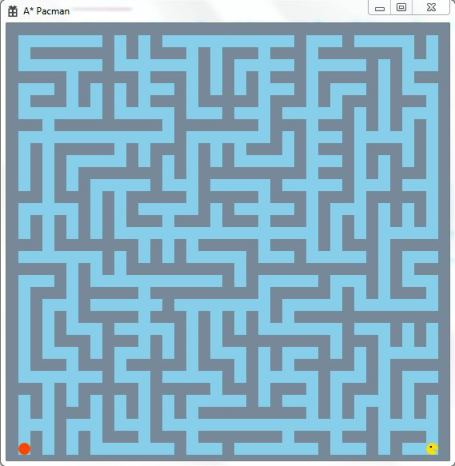
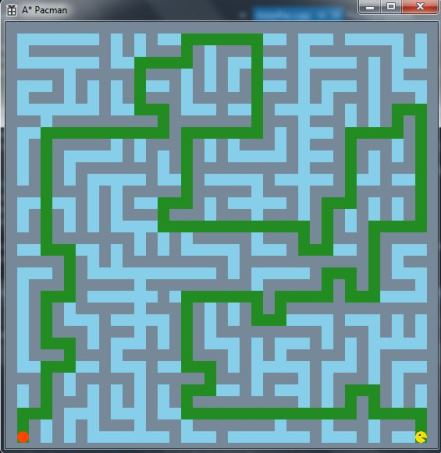
Draw astar path and update current map view

diff --git a/AstarPac/AstarPac.cpp b/AstarPac/AstarPac.cpp
@@ -77,34 +77,6 @@ ATOM AstarPac::RegClass()
 }
 
 //
-//   FUNCTION: InitInstance(HINSTANCE, int)
-//
-//   PURPOSE: Saves instance handle and creates main window
-//
-//   COMMENTS:
-//
-//        In this function, we save the instance handle in a global variable and
-//        create and display the main program window.
-//
-/*BOOL InitInstance(HINSTANCE hInstance, int nCmdShow)
-{
-   hInst = hInstance; // Store instance handle in our global variable
-
-   HWND hWnd = CreateWindowW(szWindowClass, szTitle, WS_OVERLAPPEDWINDOW,
-      CW_USEDEFAULT, 0, CW_USEDEFAULT, 0, nullptr, nullptr, hInstance, nullptr);
-
-   if (!hWnd)
-   {
-      return FALSE;
-   }
-
-   ShowWindow(hWnd, nCmdShow);
-   UpdateWindow(hWnd);
-
-   return TRUE;
-}
-*/
-//
 //  FUNCTION: WndProc(HWND, UINT, WPARAM, LPARAM)
 //
 //  PURPOSE:  Processes messages for the main window.
@@ -221,7 +193,8 @@ AstarPac::AstarPac()
   m_pDirect2dFactory(nullptr),
   m_pRenderTarget(nullptr),
   m_pLightSlateGrayBrush(nullptr),
-  m_pOrangeRedBrush(nullptr)
+  m_pOrangeRedBrush(nullptr),
+  m_pGreenBrush(nullptr)
 {
   m_pgame = new PacmanGame("grid.txt");
 }
@@ -233,6 +206,8 @@ AstarPac::~AstarPac()
   SafeRelease(m_pRenderTarget);
   SafeRelease(m_pLightSlateGrayBrush);
   SafeRelease(m_pOrangeRedBrush);
+  SafeRelease(m_pGreenBrush);
+
   SafeRelease(m_pgame);
 }
 
@@ -331,8 +306,13 @@ HRESULT AstarPac::CreateDeviceResources()
 
     if (SUCCEEDED(hr))
     {
-      //create blue brush
+      //create a red brush
       hr = m_pRenderTarget->CreateSolidColorBrush(D2D1::ColorF(D2D1::ColorF::OrangeRed), &m_pOrangeRedBrush);
+    }
+
+    if (SUCCEEDED(hr))
+    {
+      hr = m_pRenderTarget->CreateSolidColorBrush(D2D1::ColorF(D2D1::ColorF::ForestGreen), &m_pGreenBrush);
     }
   }
   return hr;
@@ -393,6 +373,7 @@ void AstarPac::DiscardDeviceResources()
   SafeRelease(m_pRenderTarget);
   SafeRelease(m_pLightSlateGrayBrush);
   SafeRelease(m_pOrangeRedBrush);
+  SafeRelease(m_pGreenBrush);
 }
 
 HRESULT AstarPac::OnRender()
@@ -418,6 +399,14 @@ HRESULT AstarPac::OnRender()
       int width = static_cast<int>(rtSize.width);
       int height = static_cast<int>(rtSize.height);
 
+      // draw path
+      std::list<std::pair<int, int>>* path = m_pgame->GetPath();
+
+      for (auto it = path->begin(); it != path->end(); ++it)
+      {
+        D2D1_RECT_F rect1 = D2D1::RectF(it->second *CELL_DIM, it->first*CELL_DIM, (it->second + 1)*CELL_DIM, (it->first + 1)*CELL_DIM);
+        m_pRenderTarget->FillRectangle(&rect1, m_pGreenBrush);
+      }
 
       // draw map
       for (int y = 0; y < m_pgame->GetHeight(); ++y)
@@ -461,6 +450,8 @@ HRESULT AstarPac::OnRender()
           }
         }
       }
+
+
       /*
       for (int x = 0; x < width; x += 10)
       {

diff --git a/AstarPac/PacmanGame.h b/AstarPac/PacmanGame.h
@@ -10,29 +10,6 @@
 #define SYMBOL_WALL '%'
 #define SYMBOL_PATH '-'
 
-class PacmanGame
-{
-public:
-  PacmanGame(char *mapfile);
-  virtual ~PacmanGame();
-  void Release();
-
-  void astar();
-
-  int GetWidth() const;
-  int GetHeight() const;
-  char operator() (int i, int j) const;
-  char & operator() (int i, int j);
-private:
-  int m_width, m_height;
-  char *m_grid;
-  std::pair<int, int> m_pacman;
-  std::pair<int, int> m_food;
-  std::list<std::pair<int,int>> m_steps;
-  bool IsPath(const char c);
-  void SetPath(m_type &path);
-};
-
 class Compare {
   bool reverse;
 public:
@@ -48,3 +25,29 @@ public:
 
 typedef std::map<std::pair<int, int>, std::pair<int, int>> m_type;
 typedef std::priority_queue<std::tuple<int, int, int>, std::vector<std::tuple<int, int, int>>, Compare> pq_type;
+
+
+class PacmanGame
+{
+public:
+  PacmanGame(char *mapfile);
+  virtual ~PacmanGame();
+  void Release();
+
+  std::list<std::pair<int, int>>* GetPath();
+
+  int GetWidth() const;
+  int GetHeight() const;
+  char operator() (int i, int j) const;
+  char & operator() (int i, int j);
+private:
+  int m_width, m_height;
+  char *m_grid;
+  std::pair<int, int> m_pacman;
+  std::pair<int, int> m_food;
+  std::list<std::pair<int,int>> m_steps;
+
+  void AStar();
+  bool IsPath(const char c);
+  void SetPath(m_type &path);
+};

diff --git a/AstarPac/PacmanGame.cpp b/AstarPac/PacmanGame.cpp
@@ -19,10 +19,17 @@ PacmanGame::PacmanGame(char * mapfile)
     for (int j = 0; j < m_width; ++j)
     {
       inf >> (*this)(i, j);
+
+      if ((*this)(i, j) == SYMBOL_PACMAN)
+        m_pacman = std::make_pair(i, j);
+      if ((*this)(i, j) == SYMBOL_FOOD)
+        m_food = std::make_pair(i, j);
     }
   }
 
   inf.close();
+
+  AStar();
 }
 
 PacmanGame::~PacmanGame()
@@ -37,8 +44,13 @@ void PacmanGame::Release()
   m_width = 0;
 }
 
+std::list<std::pair<int, int>>* PacmanGame::GetPath()
+{
+  return &m_steps;
+}
 
-void PacmanGame::astar()
+
+void PacmanGame::AStar()
 {
   m_type parents({ { m_pacman, m_pacman } });
 

diff --git a/AstarPac/AstarPac.h b/AstarPac/AstarPac.h
@@ -31,8 +31,9 @@ private:
   ID2D1Factory* m_pDirect2dFactory;
   IWICImagingFactory* m_pIWICFactory;
   ID2D1HwndRenderTarget* m_pRenderTarget;
-  ID2D1SolidColorBrush* m_pLightSlateGrayBrush;
-  ID2D1SolidColorBrush* m_pOrangeRedBrush;
+  ID2D1SolidColorBrush* m_pLightSlateGrayBrush; // wall color
+  ID2D1SolidColorBrush* m_pOrangeRedBrush;      // food color
+  ID2D1SolidColorBrush* m_pGreenBrush;          // path color
   ID2D1Bitmap *m_pD2DBitmap;
   //ID2D1ImageSourceFromWic *m_pD2DImageSource;
 
